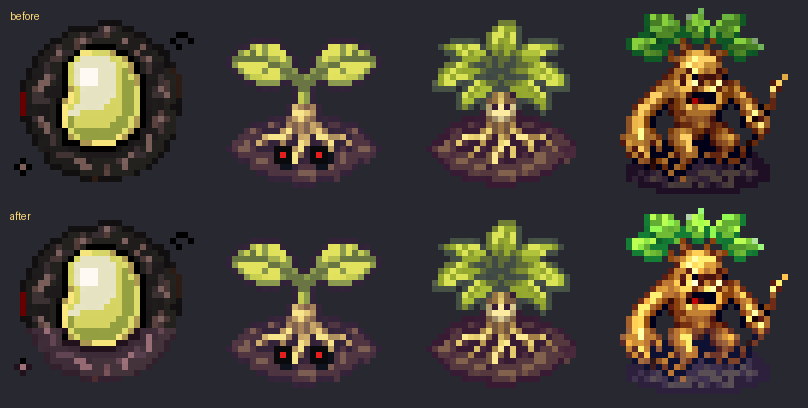
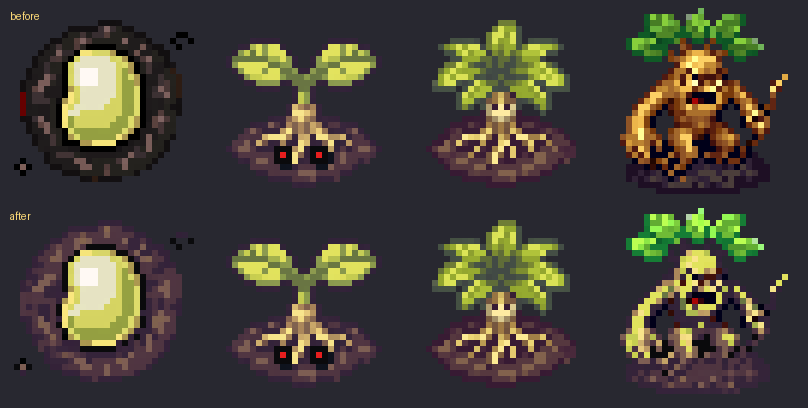
Mandrake seed and ready stages take the sprout's soil and skin palette
Claude-Session: https://claude.ai/code/session_01DZoCGNTKvTqdtWPybs567b

diff --git a/tools/art/crop_match.py b/tools/art/crop_match.py
@@ -11,20 +11,27 @@ def _classes(a: np.ndarray, soil_from_row: int = 20) -> dict:
     low = np.arange(a.shape[0])[:, None] >= soil_from_row
     leaf = alpha & (g > r + 12) & (g > b + 12)
     soil = alpha & ~leaf & low & (luma < 110) & (r >= g) & (r < 170)
-    body = alpha & ~leaf & ~soil
+    marks = alpha & ((luma < 40) | ((r > 150) & (g < 80) & (b < 80)))
+    body = alpha & ~leaf & ~soil & ~marks
     return {"soil": soil, "leaf": leaf, "body": body}
 
 
-def match(target: Image.Image, reference: Image.Image, classes: dict) -> Image.Image:
-    """classes: {name: "shift" | "luma"}. shift moves the class mean onto the reference's; luma only scales brightness to match."""
+def match(target: Image.Image, reference: Image.Image, classes: dict, soil_from_row: int = 20) -> Image.Image:
+    """classes: {name: "palette" | "shift" | "luma"}. palette takes the reference's own colours by brightness rank, shift moves the class mean onto
+    the reference's, luma only scales brightness to match."""
     t = np.asarray(target.convert("RGBA")).astype(float)
     r = np.asarray(reference.convert("RGBA")).astype(float)
-    tc, rc = _classes(t), _classes(r)
+    tc, rc = _classes(t, soil_from_row), _classes(r)
     for name, mode in classes.items():
         if not (tc[name].any() and rc[name].any()):
             continue
         mean_t, mean_r = t[tc[name]][:, :3].mean(axis=0), r[rc[name]][:, :3].mean(axis=0)
-        if mode == "shift":
+        if mode == "palette":
+            src, ref = t[tc[name]][:, :3], r[rc[name]][:, :3]
+            ref_sorted = ref[np.argsort(ref.mean(axis=1))]
+            ranks = np.argsort(np.argsort(src.mean(axis=1))) / max(1, len(src) - 1)
+            t[tc[name], :3] = ref_sorted[(ranks * (len(ref_sorted) - 1)).round().astype(int)]
+        elif mode == "shift":
             t[tc[name], :3] = np.clip(t[tc[name], :3] + (mean_r - mean_t), 0, 255)
         else:
             t[tc[name], :3] = np.clip(t[tc[name], :3] * (mean_r.mean() / max(1.0, mean_t.mean())), 0, 255)
